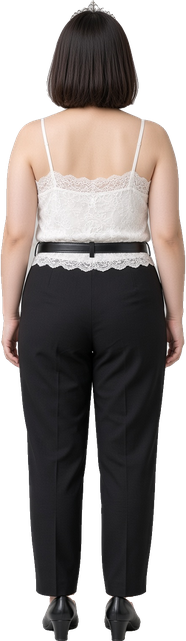
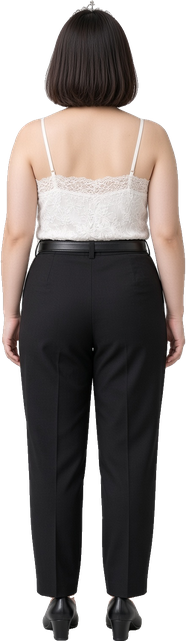
のぞみの後ろを差し替え。キャミはベルトの上で止め、ベルトは後ろのループを通す。

diff --git a/index.html b/index.html
@@ -337,22 +337,22 @@
 
 <button id="bTrenchAttack" class="serif" type="button">攻めろ！</button>
 <script src="lib/three.min.js"></script>
-<script src="assets/sprites.js?v=20261019c"></script>
-<script src="assets/frames/frames.js?v=20261019c"></script>
-<script src="assets/frames/cycles.js?v=20261019c"></script>
+<script src="assets/sprites.js?v=20261019d"></script>
+<script src="assets/frames/frames.js?v=20261019d"></script>
+<script src="assets/frames/cycles.js?v=20261019d"></script>
 <script>if (location.protocol === 'file:') document.write('<script src="assets/frames/frames_data.js"><\/script><script src="assets/frames/cycles_data.js"><\/script>');</script>
-<script src="assets/voices/voices.js?v=20261019c"></script>
-<script src="assets/voices/voices_situ.js?v=20261019c"></script>
-<script src="assets/voices/voices_uk.js?v=20261019c"></script>
-<script src="assets/voices/voices_uk2.js?v=20261019c"></script>
-<script src="assets/voices/voices_uk3.js?v=20261019c"></script>
-<script src="assets/voices/voices_uk4.js?v=20261019c"></script>
-<script src="assets/voices/voices_saidown.js?v=20261019c"></script>
-<script src="assets/voices/voices_uk5.js?v=20261019c"></script>
-<script src="assets/voices/voices_uk7.js?v=20261019c"></script>
+<script src="assets/voices/voices.js?v=20261019d"></script>
+<script src="assets/voices/voices_situ.js?v=20261019d"></script>
+<script src="assets/voices/voices_uk.js?v=20261019d"></script>
+<script src="assets/voices/voices_uk2.js?v=20261019d"></script>
+<script src="assets/voices/voices_uk3.js?v=20261019d"></script>
+<script src="assets/voices/voices_uk4.js?v=20261019d"></script>
+<script src="assets/voices/voices_saidown.js?v=20261019d"></script>
+<script src="assets/voices/voices_uk5.js?v=20261019d"></script>
+<script src="assets/voices/voices_uk7.js?v=20261019d"></script>
 <script src="lib/motion_data.js"></script>
-<script src="lib/death_clips.js?v=20261019c"></script>
-<script src="lib/death_fbx.js?v=20261019c"></script>
-<script src="game.js?v=20261019c"></script>
+<script src="lib/death_clips.js?v=20261019d"></script>
+<script src="lib/death_fbx.js?v=20261019d"></script>
+<script src="game.js?v=20261019d"></script>
 </body>
 </html>

diff --git a/game.js b/game.js
@@ -12359,7 +12359,7 @@ function synthWalk(g) {
   } catch (err) { return null; }
   return { key: 'walk_side', seq: [0, 1, 2, 3, 4, 5], n: 6, steps: 2, contact: 0, frs };
 }
-const ASSET_V = '20261019c';   // 写真を差し替えたら上げる（ブラウザのキャッシュ対策。index.html の ?v= も合わせる）
+const ASSET_V = '20261019d';   // 写真を差し替えたら上げる（ブラウザのキャッシュ対策。index.html の ?v= も合わせる）
 function loadFrames(done) {
   const meta = window.FRAME_META || {}, data = window.FRAME_DATA || {};
   const useFiles = /^https?:/.test(location.protocol), loader = new THREE.TextureLoader();
